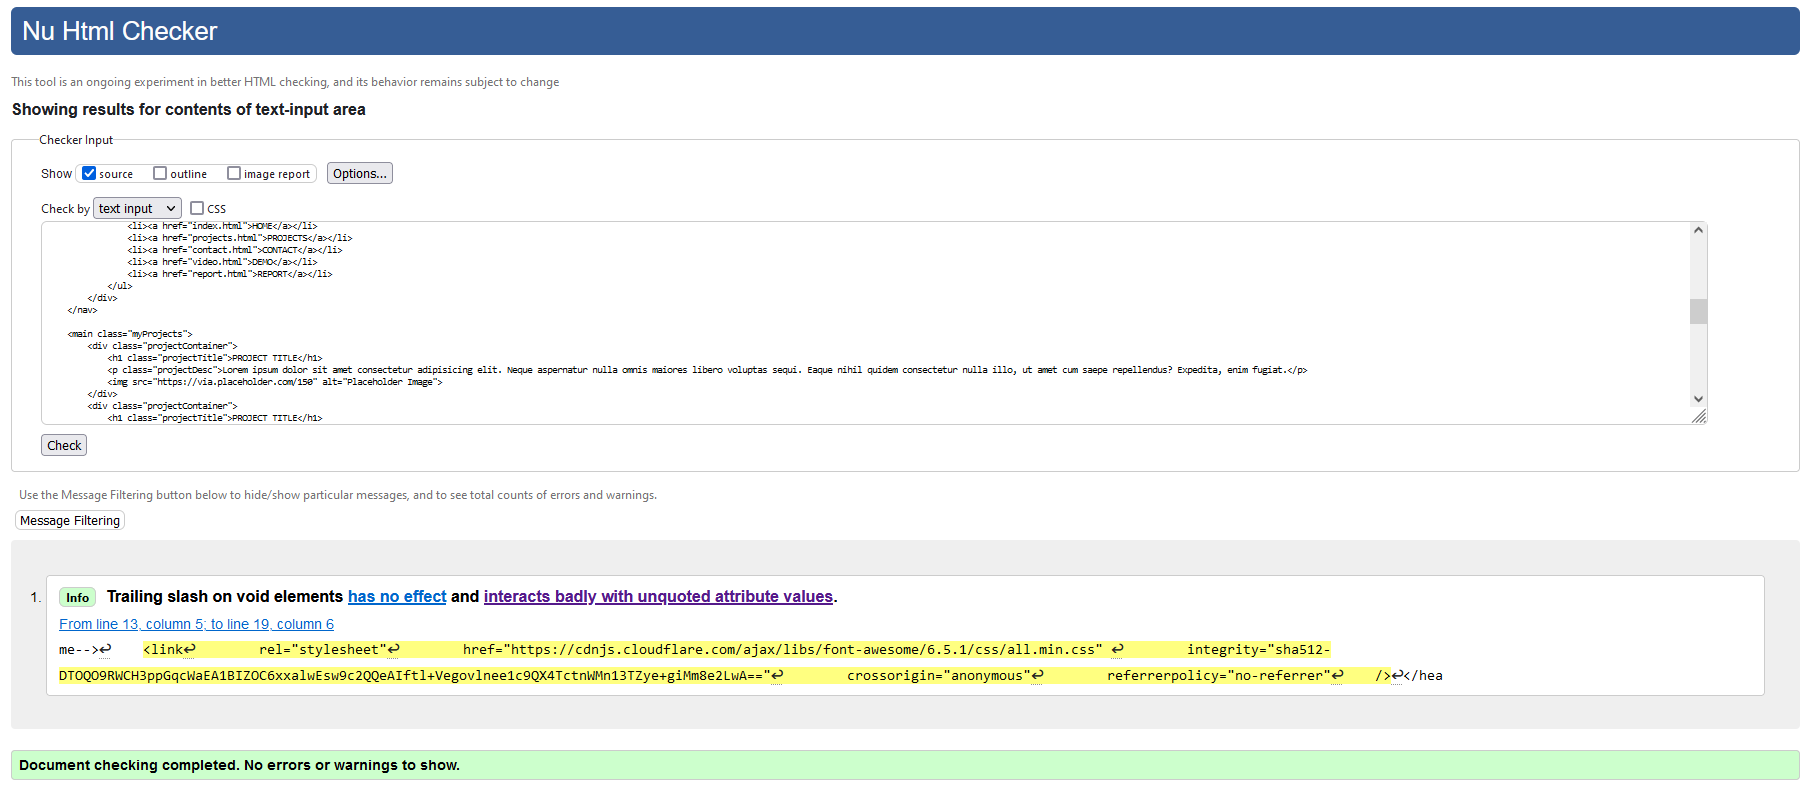
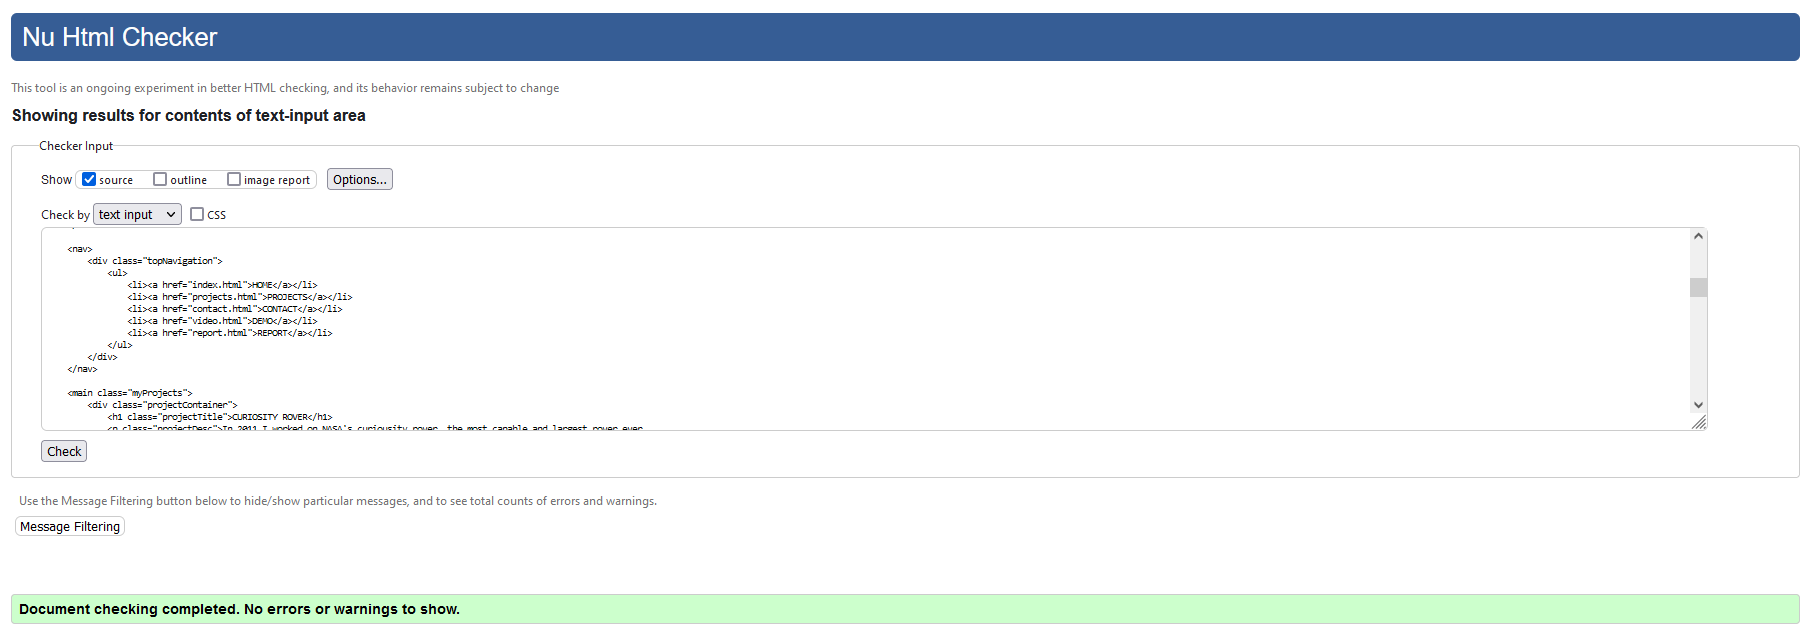
updated validation screenshots & added them to report. Also added filler content to projects page

diff --git a/projects.html b/projects.html
@@ -10,12 +10,9 @@
     <link rel="stylesheet" href="mobile.css" media="screen and (max-width: 800px)">
 
     <!--Font awesome-->
-    <link
-        rel="stylesheet"
-        href="https://cdnjs.cloudflare.com/ajax/libs/font-awesome/6.5.1/css/all.min.css" 
+    <link rel="stylesheet" href="https://cdnjs.cloudflare.com/ajax/libs/font-awesome/6.5.1/css/all.min.css"
         integrity="sha512-DTOQO9RWCH3ppGqcWaEA1BIZOC6xxalwEsw9c2QQeAIftl+Vegovlnee1c9QX4TctnWMn13TZye+giMm8e2LwA=="
-        crossorigin="anonymous"
-        referrerpolicy="no-referrer">
+        crossorigin="anonymous" referrerpolicy="no-referrer">
 </head>
 
 <body id="clicked">
@@ -40,43 +37,59 @@
 
     <main class="myProjects">
         <div class="projectContainer">
-            <h1 class="projectTitle">PROJECT TITLE</h1>
-            <p class="projectDesc">Lorem ipsum dolor sit amet consectetur adipisicing elit. Neque aspernatur nulla omnis maiores libero voluptas sequi. Eaque nihil quidem consectetur nulla illo, ut amet cum saepe repellendus? Expedita, enim fugiat.</p>
+            <h1 class="projectTitle">CURIOSITY ROVER</h1>
+            <p class="projectDesc">In 2011 I worked on NASA's curiousity rover, the most capable and largest rover ever
+                sent to Mars, it was insane. I did some electrical work and stuff, very important things like connecting
+                the wires and making sure wheels spin. Without me I think it wouldn't have been possible.</p>
             <a href="https://via.placeholder.com/150">
                 <img src="https://via.placeholder.com/150" alt="Placeholder Image">
             </a>
         </div>
         <div class="projectContainer">
-            <h1 class="projectTitle">PROJECT TITLE</h1>
-            <p class="projectDesc">Lorem ipsum dolor sit amet consectetur adipisicing elit. Neque aspernatur nulla omnis maiores libero voluptas sequi. Eaque nihil quidem consectetur nulla illo, ut amet cum saepe repellendus? Expedita, enim fugiat.</p>
+            <h1 class="projectTitle">GOOGLE INTERN</h1>
+            <p class="projectDesc">I was an intern at Google in 2020, nothing interesting happened. Overrated to be
+                honest, they talked about marketing and things. Overall experience was 6/10. LOOKS GOOD ON A CV
+                METHINKS.</p>
             <a href="https://via.placeholder.com/150">
                 <img src="https://via.placeholder.com/150" alt="Placeholder Image">
             </a>
         </div>
         <div class="projectContainer">
-            <h1 class="projectTitle">PROJECT TITLE</h1>
-            <p class="projectDesc">Lorem ipsum dolor sit amet consectetur adipisicing elit. Neque aspernatur nulla omnis maiores libero voluptas sequi. Eaque nihil quidem consectetur nulla illo, ut amet cum saepe repellendus? Expedita, enim fugiat.</p>
+            <h1 class="projectTitle">FREELANCE ANIMATOR</h1>
+            <p class="projectDesc">In 2019 I was bored during Covid-19, so I downloaded blender one afternoon and
+                learned rigging and animating, then I went on Fiverr and did some commissions and whatnot, it got boring
+                very fast because I discovered I actually hate animating, and the camera in blender made me nauseous.
+            </p>
             <a href="https://via.placeholder.com/150">
                 <img src="https://via.placeholder.com/150" alt="Placeholder Image">
             </a>
         </div>
         <div class="projectContainer">
-            <h1 class="projectTitle">PROJECT TITLE</h1>
-            <p class="projectDesc">Lorem ipsum dolor sit amet consectetur adipisicing elit. Neque aspernatur nulla omnis maiores libero voluptas sequi. Eaque nihil quidem consectetur nulla illo, ut amet cum saepe repellendus? Expedita, enim fugiat.</p>
+            <h1 class="projectTitle">'GAME' DEVELOPER</h1>
+            <p class="projectDesc">Shortly after blender I tried out a few game engines, Unity, Unreal and GameMaker. My
+                friend happened to know Unity so he explained a game concept to me and we decided to work on it a little
+                bit, I used some C# within Unity. Interesting language, also taught me Object Oriented Programming which
+                came in clutch for the programming module in University, although I forgot quite a lot.</p>
             <a href="https://via.placeholder.com/150">
                 <img src="https://via.placeholder.com/150" alt="Placeholder Image">
             </a>
         </div>
         <div class="projectContainer">
-            <h1 class="projectTitle">PROJECT TITLE</h1>
-            <p class="projectDesc">Lorem ipsum dolor sit amet consectetur adipisicing elit. Neque aspernatur nulla omnis maiores libero voluptas sequi. Eaque nihil quidem consectetur nulla illo, ut amet cum saepe repellendus? Expedita, enim fugiat.</p>
+            <h1 class="projectTitle">STUDENT</h1>
+            <p class="projectDesc">I was actually a student throughout most of my life, and I consider it one of the
+                longest standing positions I've ever had, still am a student currently. I am doing a Software
+                Engineering degree at the University of Northampton. I have been enjoying it so far not gonna lie, lets
+                hope it stays that way. Also the Web Development module is pretty cool as well, lecturer is a calm guy.
+            </p>
             <a href="https://via.placeholder.com/150">
                 <img src="https://via.placeholder.com/150" alt="Placeholder Image">
             </a>
         </div>
         <div class="projectContainer">
-            <h1 class="projectTitle">PROJECT TITLE</h1>
-            <p class="projectDesc">Lorem ipsum dolor sit amet consectetur adipisicing elit. Neque aspernatur nulla omnis maiores libero voluptas sequi. Eaque nihil quidem consectetur nulla illo, ut amet cum saepe repellendus? Expedita, enim fugiat.</p>
+            <h1 class="projectTitle">LOREM IPSUM</h1>
+            <p class="projectDesc">dolor sit amet consectetur adipisicing elit. Neque aspernatur nulla omnis
+                maiores libero voluptas sequi. Eaque nihil quidem consectetur nulla illo, ut amet cum saepe repellendus?
+                Expedita, enim fugiat.</p>
             <a href="https://via.placeholder.com/150">
                 <img src="https://via.placeholder.com/150" alt="Placeholder Image">
             </a>

diff --git a/report.html b/report.html
@@ -110,6 +110,24 @@
                         <img src="images/validation_pics/report_validation.PNG" alt="validation screenshot" class="validationImg">
                     </a>
                 </div>
+                <div class="imgContainer">
+                    <h3 class="reportHeader">main.css</h3>
+                    <a href="images/validation_pics/main_css_validation.PNG">
+                        <img src="images/validation_pics/main_css_validation.PNG" alt="validation screenshot" class="validationImg">
+                    </a>
+                </div>
+                <div class="imgContainer">
+                    <h3 class="reportHeader">desktop.css</h3>
+                    <a href="images/validation_pics/desktop_css_validation.PNG">
+                        <img src="images/validation_pics/desktop_css_validation.PNG" alt="validation screenshot" class="validationImg">
+                    </a>
+                </div>
+                <div class="imgContainer">
+                    <h3 class="reportHeader">mobile.css</h3>
+                    <a href="images/validation_pics/mobile_css_validation.PNG">
+                        <img src="images/validation_pics/mobile_css_validation.PNG" alt="validation screenshot" class="validationImg">
+                    </a>
+                </div>
             </div>
         </div>
     </main>

diff --git a/video.html b/video.html
@@ -37,7 +37,7 @@
 
     <main>
         <div class="demoContainer">
-            <iframe src="https://www.youtube.com/embed/HD13eq_Pmp8?si=GDNVtcCZ1uxt2vQe" title="YouTube video player" frameborder="0" allow="accelerometer; autoplay; clipboard-write; encrypted-media; gyroscope; picture-in-picture; web-share" allowfullscreen></iframe>
+            <iframe src="https://www.youtube.com/embed/HD13eq_Pmp8?si=GDNVtcCZ1uxt2vQe" title="YouTube video player" allow="accelerometer; autoplay; clipboard-write; encrypted-media; gyroscope; picture-in-picture; web-share" allowfullscreen></iframe>
             <div class="urlContainer">
                 <a href="" class="videoUrl">VIDEO URL HERE</a>
             </div>
